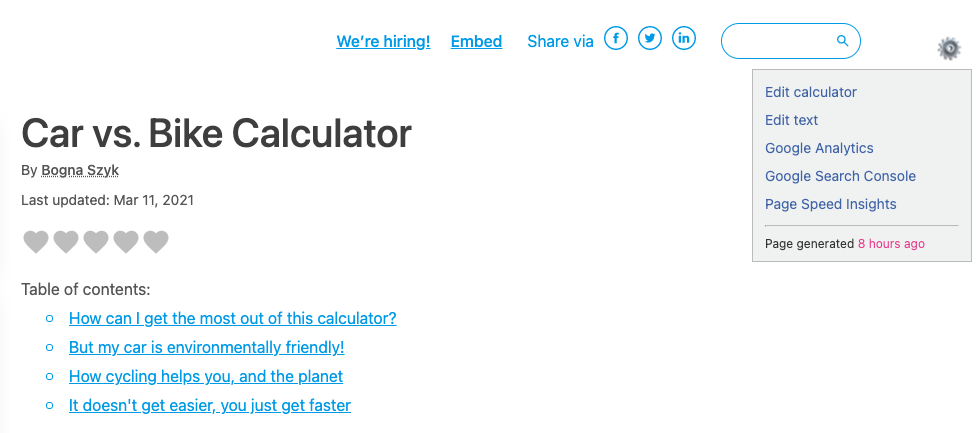
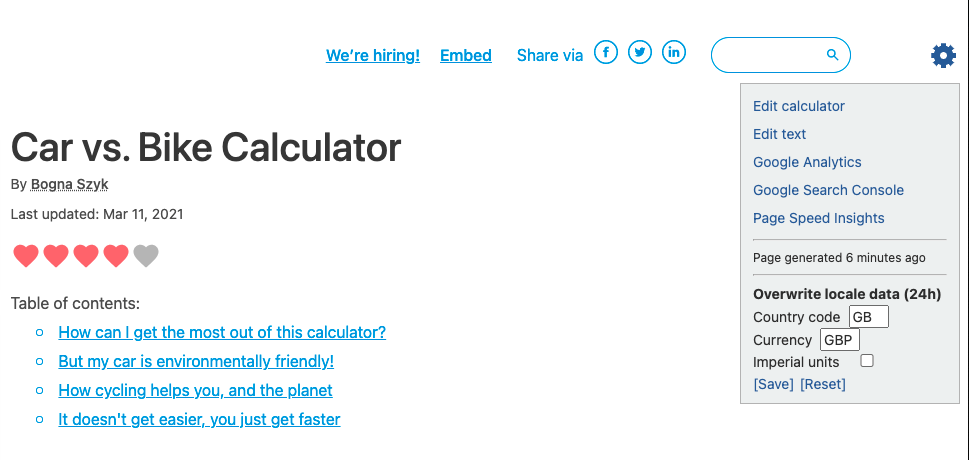
Add section on locale date settings

diff --git a/docs/generalTips/calculatorPage/buttons.rst b/docs/generalTips/calculatorPage/buttons.rst
@@ -1,7 +1,10 @@
 .. _buttons:
 
-Quick links and page age
-========================
+Quick links, page age and locale
+================================
+
+Quick links
+-----------
 
 .. _buttonsExample:
 .. figure:: buttons-example.png
@@ -22,4 +25,29 @@ For detailed documentation on each of these pages, click on the links in the lis
 .. tip::
   Clicking on these links will replace the calculator page. If you want to open them in a new tab instead, you can right-click on the link and choose **Open link in new tab** (or similar).
 
+Page age
+--------
+
 After the list of links, information about **when the page was generated** is shown. This is so you know whether you are looking at a version of the calculator that includes the changes you just made, or an old version. Try **reloading the page** to get the latest version.
+
+Overwrite locale data
+---------------------
+
+To help test your calculator as viewer as if you were in another country, you can change the locale data.
+
+There are three settings to play with:
+
+* **Country code** — allows you to change the country you report to the calculator. Use the standard `two-letter country codes <https://www.iban.com/country-codes>`_.
+* **Currency** — allows you to change the currency you report to the calculator. Use the standard `three-letter currency codes <https://www.iban.com/currency-codes>`_.
+* **Imperial units** — checking this box will make any variables that have a default imperial unit set display that unit.
+
+To make a change:
+
+1. Make the changes you want.
+2. Click the **[Save]** button.
+3. Click the **Reset defaults** button, in order to see the imperial units update.
+
+To **reset back to your regular settings**, press the **[Reset]** button.
+
+.. warning::
+  Changed local settings apply **site-wide, to all calculators** and will remain until changed or reset.
